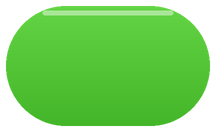
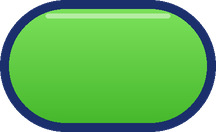
feat(ui): 界面改为糖果厚边风格（粗描边、硬投影、实心）；局内顶部区域压缩约 90px

Changed region(s): [[0.0, 0.0, 1.0, 1.0]]

diff --git a/tools/art/kit.py b/tools/art/kit.py
@@ -18,6 +18,7 @@ DENSITY = 3  # 贴图像素 / 设计像素
 SS = 2  # 额外超采样，缩小后边缘平滑
 K = DENSITY * SS
 NAVY = (6, 31, 77)
+OUTLINE = (26, 47, 107, 255)  # 粗描边与硬投影统一用这一种深蓝
 pieces = {}
 
 
@@ -50,10 +51,11 @@ def tint(mask: Image.Image, color) -> Image.Image:
     return Image.merge("RGBA", [Image.new("L", mask.size, c) for c in color[:3]] + [alpha])
 
 
-def box(w, h, radius, top, bottom=None, border=None, border_w=0.0, shadow=0.0, blur=0.0, drop=0.0, shine=0.0):
+def box(w, h, radius, top, bottom=None, border=None, border_w=0.0, shadow=0.0, blur=0.0, drop=0.0, shine=0.0, hard=0.0):
     """一个圆角块。返回 (图, 投影留边)。尺寸单位是设计像素。"""
     bottom = bottom or top
     pad = math.ceil(blur * 2 + drop) if shadow else 0
+    pad = max(pad, math.ceil(hard))
     size = ((w + pad * 2) * K, (h + pad * 2) * K)
     p, bw = pad * K, round(border_w * K)
     outer = (p, p, p + w * K - 1, p + h * K - 1)
@@ -66,6 +68,9 @@ def box(w, h, radius, top, bottom=None, border=None, border_w=0.0, shadow=0.0, b
         sh = sh.filter(ImageFilter.GaussianBlur(blur * K))
         # 投影只留在部件外面，否则会透过半透明的玻璃把它压暗
         img.alpha_composite(tint(ImageChops.subtract(sh, outer_mask), NAVY + (round(shadow * 255),)))
+    if hard:
+        hs = shape(size, (outer[0], outer[1] + hard * K, outer[2], outer[3] + hard * K), radius * K)
+        img.alpha_composite(tint(hs, OUTLINE))
     if border and bw:
         img.alpha_composite(tint(ImageChops.subtract(outer_mask, inner_mask), border))
     face = gradient(size, top, bottom, inner[1], inner[3])
@@ -90,16 +95,15 @@ def save(name: str, made, stretch: bool = True) -> None:
 
 
 def circle(d, top, bottom, ring_w=4.0, shadow=0.25):
-    blur, drop = 4, 3
-    pad = math.ceil(blur * 2 + drop)
+    drop = 4
+    pad = drop + 1
     S = (d + pad * 2) * K
     p = pad * K
     img = Image.new("RGBA", (S, S), (0, 0, 0, 0))
     disc = Image.new("L", (S, S), 0)
     ImageDraw.Draw(disc).ellipse((p, p, p + d * K - 1, p + d * K - 1), fill=255)
-    sh = ImageChops.offset(disc, 0, drop * K).filter(ImageFilter.GaussianBlur(blur * K))
-    img.alpha_composite(tint(ImageChops.subtract(sh, disc), NAVY + (round(shadow * 255),)))
-    img.alpha_composite(tint(disc, (255, 255, 255, 255)))
+    img.alpha_composite(tint(ImageChops.offset(disc, 0, drop * K), OUTLINE))
+    img.alpha_composite(tint(disc, OUTLINE))
     r = round(ring_w * K)
     inner = Image.new("L", (S, S), 0)
     ImageDraw.Draw(inner).ellipse((p + r, p + r, p + d * K - 1 - r, p + d * K - 1 - r), fill=255)
@@ -148,50 +152,45 @@ def main() -> None:
     OUT.mkdir(parents=True, exist_ok=True)
     for old in list(OUT.glob("*.png")) + list(OUT.glob("*.png.import")):
         old.unlink()
-    white = rgba("FFFFFF")
 
-    # 按钮：淡渐变 + 细白边 + 一条高光线 + 柔和投影
+    O = OUTLINE
+    # 糖果厚边：深蓝粗描边 + 平涂饱和色 + 向下的硬投影，不用透明
     families = {
-        "blue": ("4AA5F8", "2A86EA"),
-        "green": ("63D444", "43B528"),
-        "orange": ("FFAE45", "F58A12"),
-        "purple": ("A274E6", "8553D6"),
-        "red": ("F56B59", "E0452F"),
+        "blue": ("5CB8FF", "2F8DEB"),
+        "green": ("7BE05A", "46B82C"),
+        "orange": ("FFBE4D", "F58A12"),
+        "purple": ("B084F0", "8553D6"),
+        "red": ("FF7D6B", "E0452F"),
     }
 
-    def button(name, radius=30, w=96, h=92):
+    def button(name, radius=26, w=96, h=92):
         top, bottom = (rgba(c) for c in families[name])
-        return box(w, h, radius, top, bottom, rgba("FFFFFF", 0.55), 2, shadow=0.24, blur=5, drop=6, shine=0.5)
+        return box(w, h, radius, top, bottom, O, 4, shine=0.55, hard=6)
 
     for name in families:
         save(f"btn_{name}", button(name))
-    save("tile", button("blue", 30, 108, 108))
-    save("btn_gear", stamp(button("blue", 22, 72, 72), gear(44)), stretch=False)
-    save("btn_close", stamp(button("red", 22, 72, 72), cross(44, False)), stretch=False)
+    save("tile", button("blue", 26, 108, 108))
+    save("btn_gear", stamp(button("blue", 20, 72, 72), gear(44)), stretch=False)
+    save("btn_close", stamp(button("red", 20, 72, 72), cross(44, False)), stretch=False)
 
-    # 实心面板：顶栏、底栏、暂存槽托盘、选中的页签（不透明，背景再花也读得清）
-    save("glass", box(96, 96, 30, rgba("2C7AD2"), rgba("1C5AAE"), rgba("A5D4FF", 0.9), 2.5, shadow=0.3, blur=6, drop=6, shine=0.35))
-    save("tab_on", box(72, 72, 24, rgba("5DB8FF"), rgba("2F8FEA"), rgba("FFFFFF", 0.85), 2.5, shine=0.5))
-    # 深色胶囊：数字底、进度条底、暂存格（同样实心）
-    save("chip", box(72, 60, 30, rgba("123F84"), rgba("0E3170"), rgba("6FB0F0", 0.7), 2))
-    save("slot", box(76, 76, 18, rgba("1A5CAB"), rgba("144C93"), rgba("5AA0EA", 0.8), 2))
-    save("fill", box(72, 44, 22, rgba("63D444"), rgba("43B528"), rgba("FFFFFF", 0.5), 2, shine=0.45))
-    # 浅色面板：弹窗、列表行、卡片
-    save("panel", box(120, 120, 44, rgba("FFFFFF"), rgba("EEF7FF"), white, 3, shadow=0.34, blur=12, drop=14))
-    save("row", box(96, 96, 28, rgba("FFFFFF"), rgba("EAF4FF"), white, 3, shadow=0.16, blur=5, drop=5))
-    save("card", box(96, 96, 28, rgba("FFFFFF"), rgba("EAF4FF"), white, 3, shadow=0.16, blur=5, drop=5))
-    save("card_gold", box(96, 96, 28, rgba("FFF1BF"), rgba("FFDF86"), white, 3, shadow=0.2, blur=5, drop=5))
-    # 鱼缸架：一条玻璃搁板
-    save("shelf", box(96, 24, 12, rgba("9AD6F6"), rgba("5CB0E4"), rgba("D8F1FF"), 2, shadow=0.25, blur=4, drop=4))
+    save("glass", box(96, 96, 28, rgba("5CB8FF"), rgba("3A95EE"), O, 4, shine=0.4, hard=6))
+    save("tab_on", box(72, 72, 20, rgba("FFDC4A"), rgba("FFB81F"), O, 4, shine=0.5, hard=4))
+    save("chip", box(72, 60, 30, rgba("FFFFFF"), rgba("E3F1FF"), O, 3.5, hard=3))
+    save("slot", box(76, 76, 16, rgba("D2EDFF"), rgba("B0DBFA"), O, 3))
+    save("fill", box(72, 44, 22, rgba("7BE05A"), rgba("46B82C"), O, 3, shine=0.45))
+    save("panel", box(120, 120, 36, rgba("FFFFFF"), rgba("EAF4FF"), O, 5, hard=9))
+    save("row", box(96, 96, 24, rgba("FFFFFF"), rgba("EAF4FF"), O, 4, hard=5))
+    save("card", box(96, 96, 24, rgba("FFFFFF"), rgba("EAF4FF"), O, 4, hard=5))
+    save("card_gold", box(96, 96, 24, rgba("FFF1BF"), rgba("FFDC7A"), O, 4, hard=5))
+    save("shelf", box(96, 24, 12, rgba("F6BE74"), rgba("E39544"), O, 3, hard=4))
 
-    # 底部渐隐条：从透明过渡到深蓝，衬托页签和道具键
     fade = gradient((8 * K, 96 * K), NAVY + (0,), NAVY + (215,), 0, 96 * K)
     save("fade", fade)
 
-    save("badge_green", circle(80, rgba("63D444"), rgba("3FAE25")), stretch=False)
+    save("badge_green", circle(80, rgba("7BE05A"), rgba("46B82C")), stretch=False)
     save("badge_purple", circle(80, rgba("A274E6"), rgba("7B49CC")), stretch=False)
     save("dot_red", circle(40, rgba("F56B59"), rgba("E0452F"), ring_w=3), stretch=False)
-    save("plus", stamp(circle(56, rgba("63D444"), rgba("3FAE25")), cross(40, True)), stretch=False)
+    save("plus", stamp(circle(56, rgba("7BE05A"), rgba("46B82C")), cross(40, True)), stretch=False)
 
     (OUT / "kit.json").write_text(json.dumps({"density": DENSITY, "pieces": pieces}, indent=1) + "\n")
     print(f"✓ 生成 {len(pieces)} 个部件 → {OUT}")

diff --git a/docs/03-美术规范.md b/docs/03-美术规范.md
@@ -14,7 +14,7 @@
 
 ## 2. 本作的视觉识别
 
-插画（鱼、鱼缸、气泡、图标、背景）是明亮的 Q 版卡通；**界面部件是「轻玻璃」风格**，用户 2026-11-15 从三套样稿里选定。此前的「果冻立体」方案因果冻感太重、圆角太大、高光太亮、元素没对齐被否决。
+插画（鱼、鱼缸、气泡、图标、背景）是明亮的 Q 版卡通；**界面部件是「糖果厚边」风格**：深蓝粗描边（#1A2F6B）、平涂饱和色、向下的硬投影，面板一律不透明，数字胶囊是白底深蓝字，选中项用黄色。此前的「果冻立体」和「轻玻璃（半透明）」都被否决：前者果冻感太重，后者在花背景上看不清。
 
 | 维度 | 设定 |
 |---|---|
